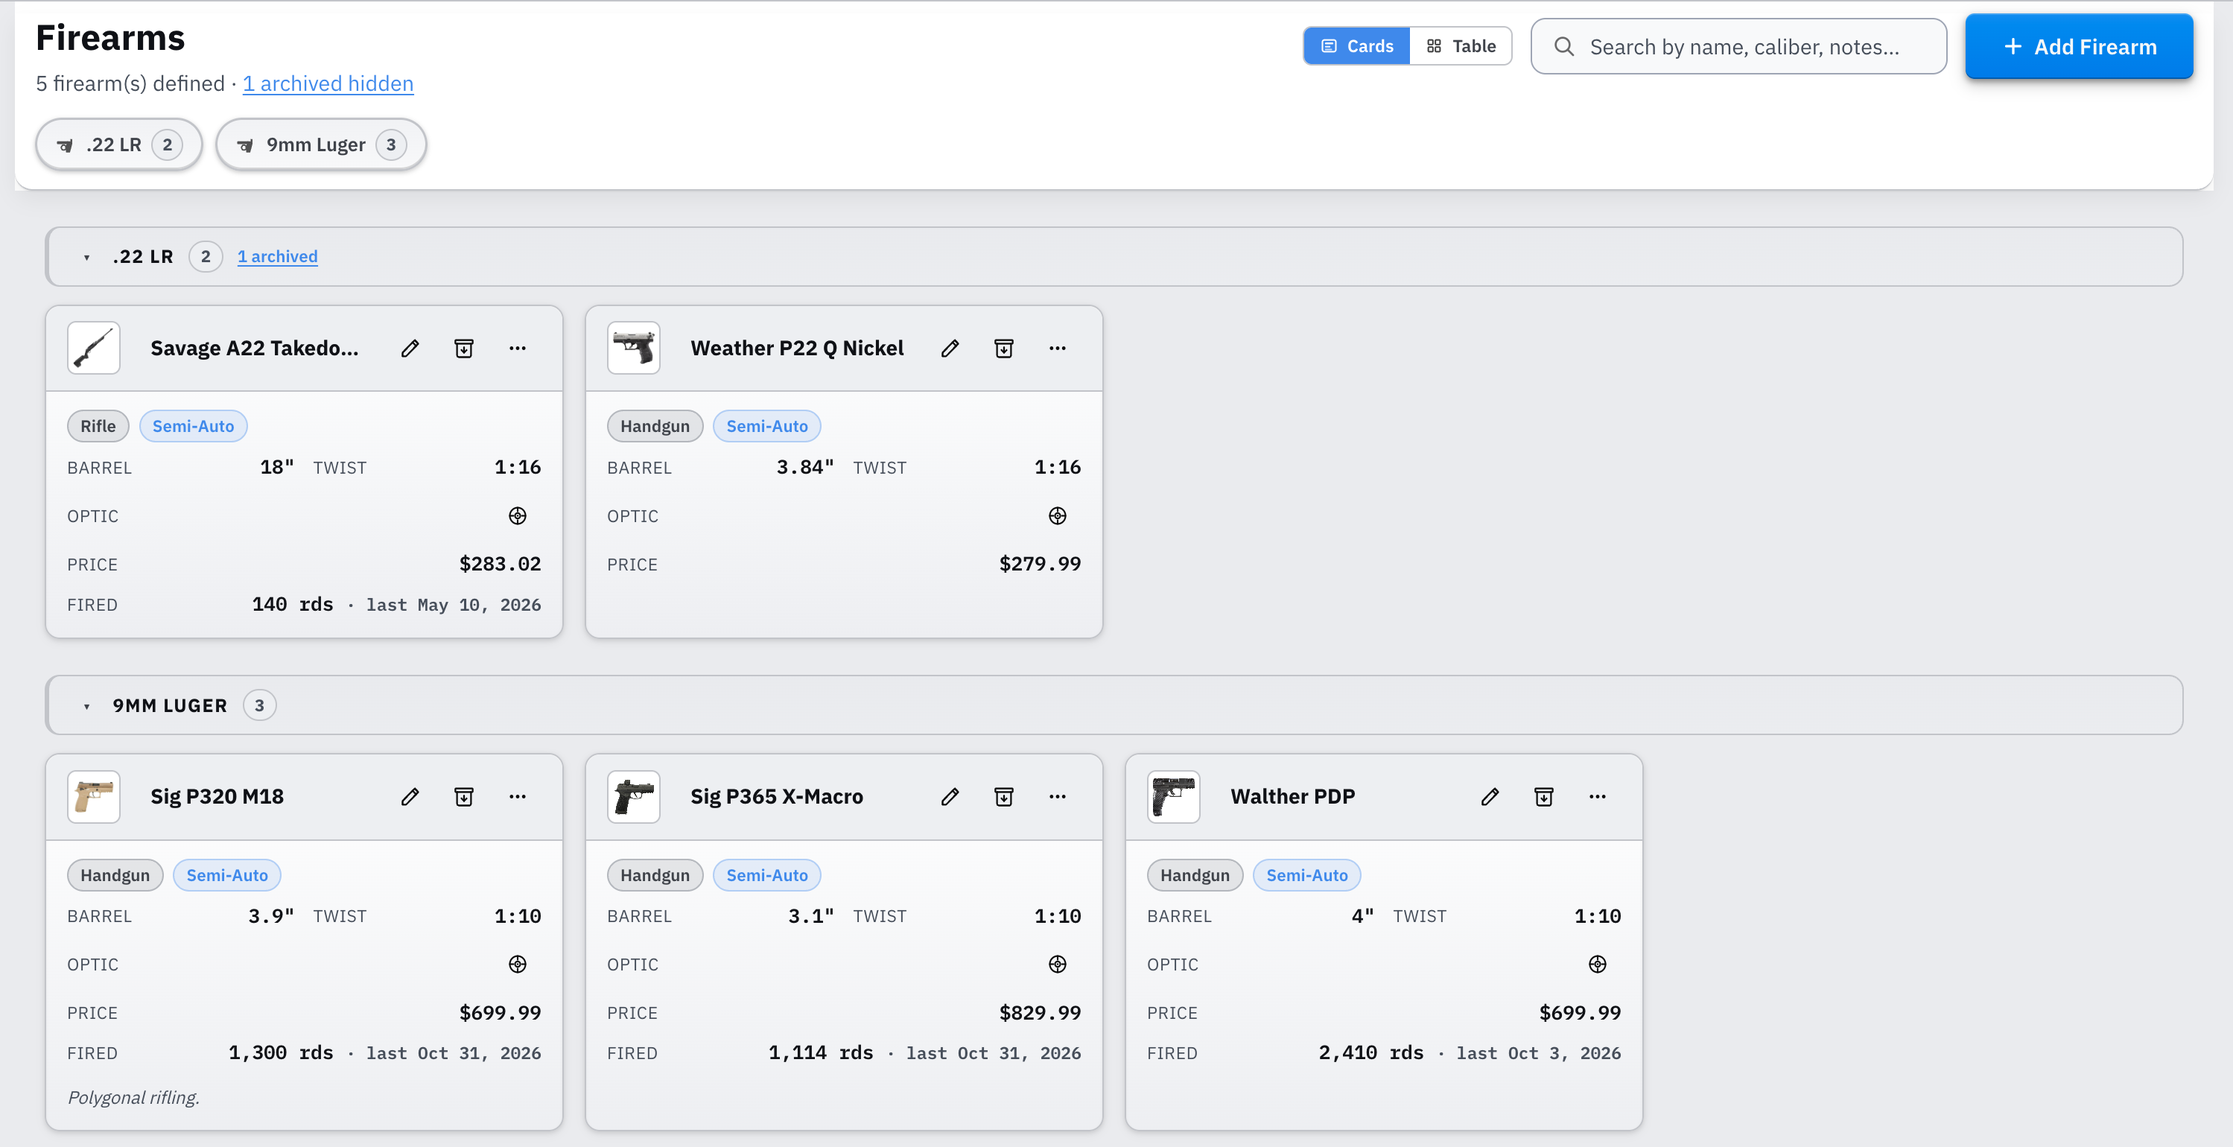
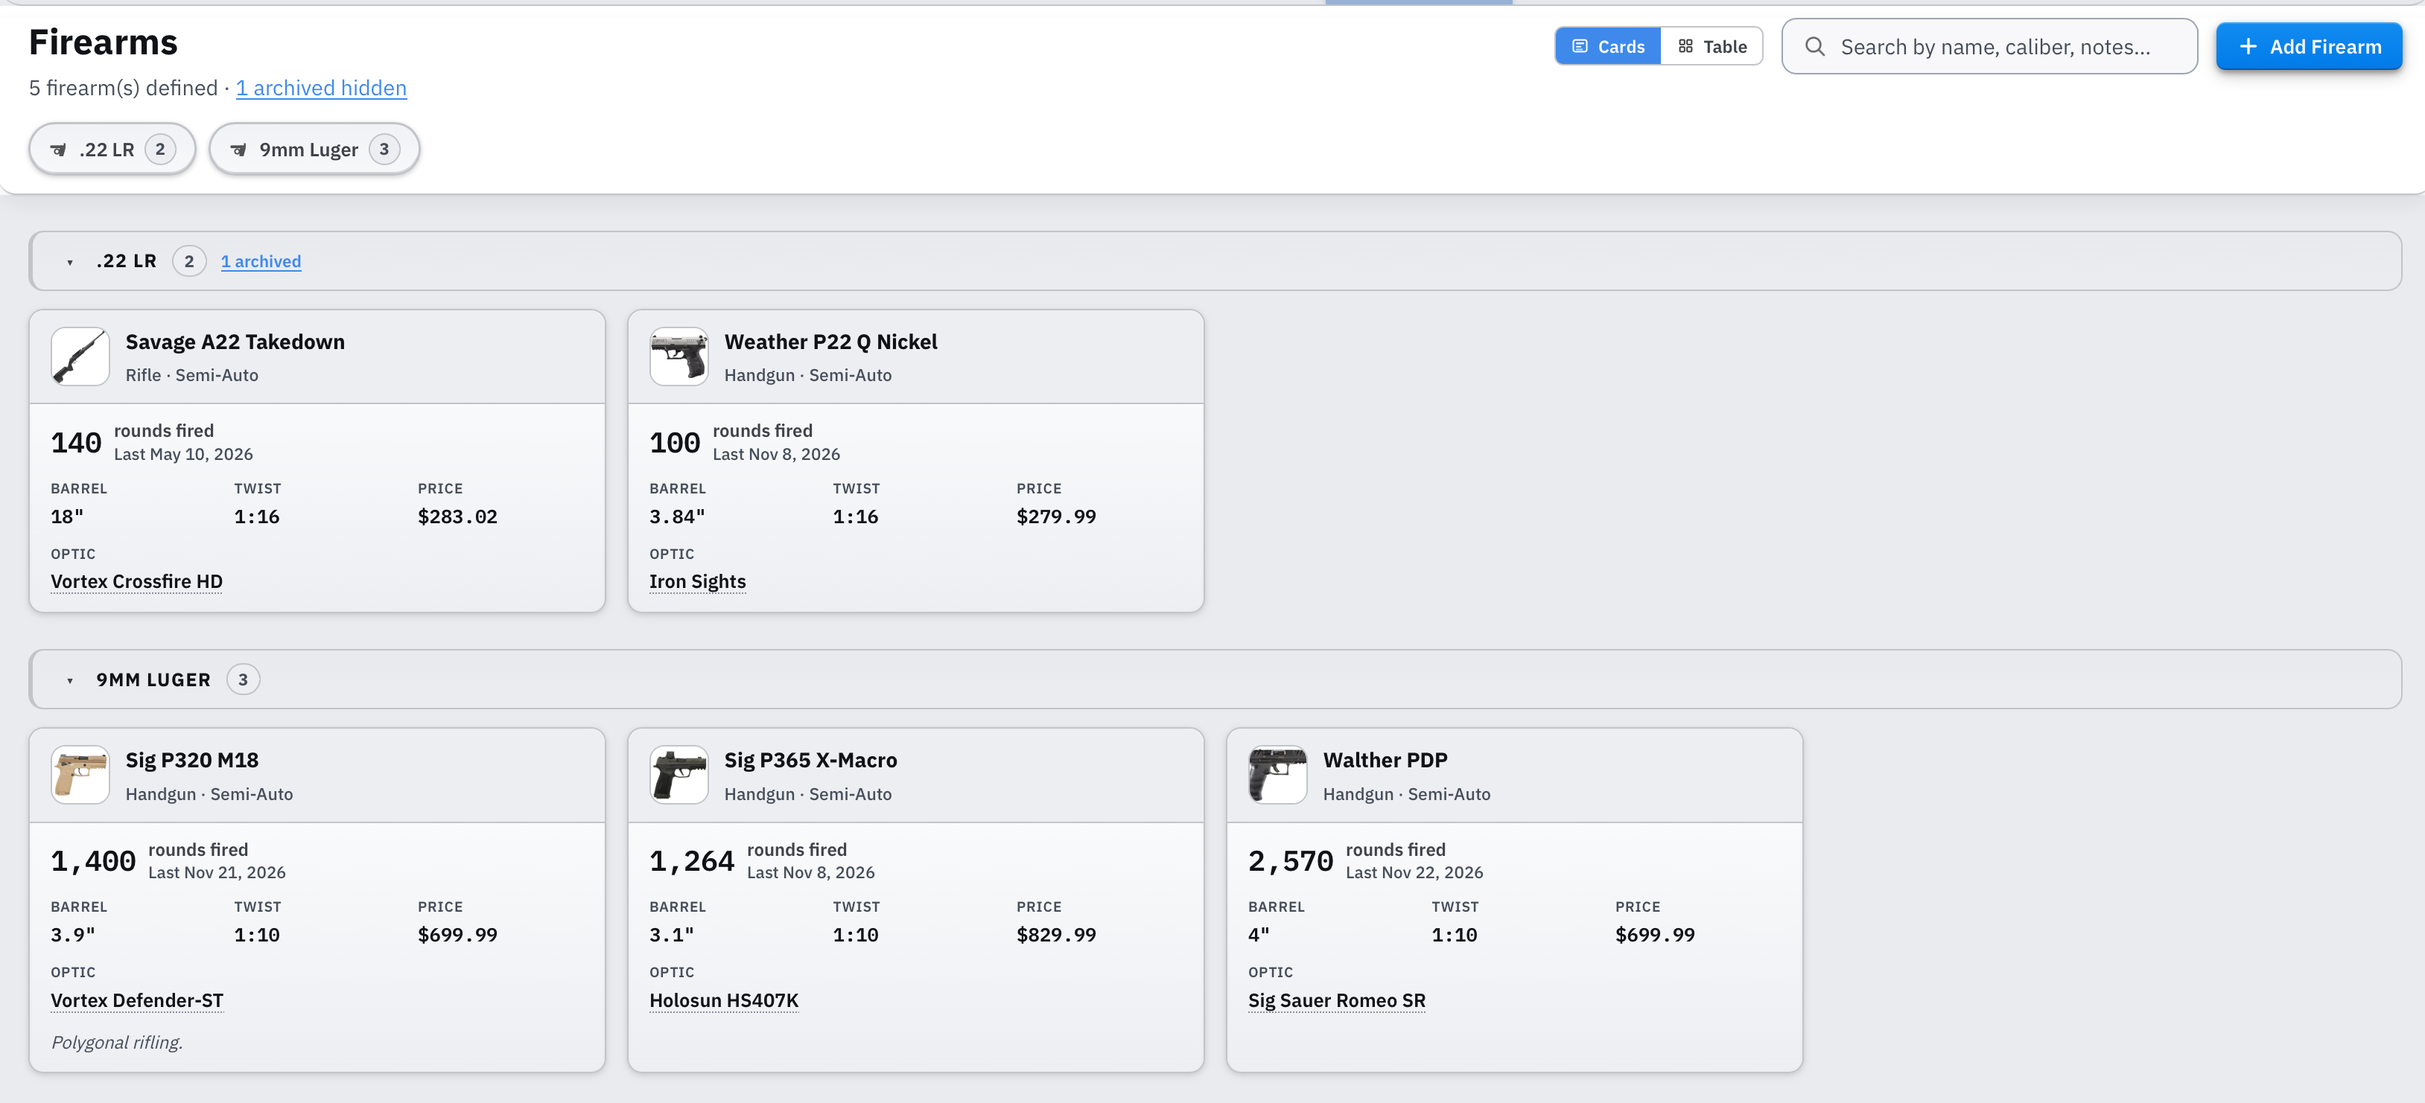
updates for version 2.17.28

diff --git a/README.md b/README.md
@@ -1,4 +1,4 @@
-# Reloading Tracker 2.17.23: User Guide
+# Reloading Tracker 2.17.28: User Guide
 
 Reloading Tracker is your complete bench-to-range companion. It starts as a production log: define your loads, record every pressing session with a unique lot number, and print a label for every box on your shelf.
 
@@ -7,7 +7,7 @@ It grows with you from there. Keep one inventory of your components. Work up new
 If you also care about costs, the app covers that too. Compare your reloads with factory ammunition, track how close you are to paying off your equipment, and see a side-by-side cost breakdown for any mix of loads. This part is optional; plenty of reloaders just want the log and the data.
 
 
-> **DOWNLOAD:** A desktop version is available from the releases page: [**latest version**](https://github.com/fmalpartida/reloading-cost-calculator/releases/tag/v2.17.23). All previous versions are available [here](https://github.com/fmalpartida/reloading-cost-calculator/releases).
+> **DOWNLOAD:** A desktop version is available from the releases page: [**latest version**](https://github.com/fmalpartida/reloading-cost-calculator/releases/tag/v2.17.28). All previous versions are available [here](https://github.com/fmalpartida/reloading-cost-calculator/releases).
 
 
 Want to try it out first?
@@ -267,7 +267,11 @@ Click **Add Ammo** or the **+** button in the **Factory** section header. The Ed
 
 ### 2.3 Managing Ammo Entries
 
-Each ammo card and table row has these actions in its top-right corner:
+Each card leads with the load itself. The header shows the name and caliber. Below it, the recipe sits in two columns: powder and charge next to bullet and weight, then COAL or CBTO, then primer next to brass. The quantities line up on the right of each column. Factory ammo shows the bullet and its shell specs instead.
+
+Under the recipe, a small line shows the stock pill and the cost per round. A note shows as a short preview; hover over it to read it all.
+
+On a card, the action buttons appear when you hover over it. In table view they're always in the row. These are the actions:
 
 | Button | Action |
 |--------|--------|
@@ -287,7 +291,7 @@ The buttons don't appear on retired or draft ammo.
 
 Delete asks you to confirm and names the load. If the load has Journal history, the dialog also offers **Retire instead**, which hides it and keeps that history.
 
-Click the **▸ / ▾** chevron on the left of the action buttons to expand a card and see the full component cost breakdown. Click the small arrow at the left of the **Reloads** or **Factory** header to collapse that whole section; the app remembers it.
+Click the **⌄** chevron at the right of the stock line to expand a card and see the full component cost breakdown, status and volume costs. Click the small arrow at the left of the **Reloads** or **Factory** header to collapse that whole section; the app remembers it.
 
 Use the **Search** box to filter cards by name, caliber, type, or component name.
 
@@ -301,15 +305,15 @@ To hide ammo with nothing in hand, click the **no-stock filter** button in the h
 
 **Stock display**
 
-Ammo that tracks stock shows a **stock pill** on the card and a **Stock** column in table view. Factory ammo shows rounds and boxes left, e.g. *250 rds (5 boxes) left* (see [2.2](#22-adding-a-factory-ammo-entry)). Reloads show the rounds left in their active Journal lots, e.g. *240 rds left*, which matches the Journal's **Remaining** column (see [2.1](#21-adding-a-reload-entry)). Ammo with no stock tracked shows nothing.
+Ammo that tracks stock shows a **stock pill** on the card and a **Stock** column in table view. Factory ammo shows rounds and boxes left, e.g. *250 rds · 5 boxes* on the card and *250 rds (5 boxes)* in the table (see [2.2](#22-adding-a-factory-ammo-entry)). Reloads show the rounds left in their active Journal lots, e.g. *240 rds*, which matches the Journal's **Remaining** column (see [2.1](#21-adding-a-reload-entry)). Ammo with no stock tracked shows nothing.
 
-On the card, the pill sits at the right end of the card. Its color shows where you stand: **green** while you have stock, **orange** at or below your **Alert Below** threshold, and **red** at zero. The table view shows the same pill. Hover over the pill to see how the number is worked out.
+On the card, the pill sits on the line under the recipe. Its color shows where you stand: **green** while you have stock, **orange** at or below your **Alert Below** threshold, and **red** at zero. The table view shows the same pill. Hover over the pill to see how the number is worked out.
 
 ![Screenshot: Expanded ammo card showing component breakdown](images/ammo-viewer.png)
 
 **Missing components**
 
-A reload shows an orange **⚠ Components missing** badge when a linked component can't cover even one round. For example, you're out of primers, or you have less powder than one charge. Hover over the badge to see which components. In table view, a small **⚠** sits next to the name instead.
+A reload shows an orange **⚠ Missing** badge next to the stock pill when a linked component can't cover even one round. For example, you're out of primers, or you have less powder than one charge. Hover over the badge to see which components. In table view, a small **⚠** sits next to the name instead.
 
 Only components linked from My Components (see [3.3](#33-linking-inventory-to-loads)) with **Stock on hand** set are checked.
 
@@ -345,7 +349,7 @@ Every ammo entry has a **status** that shows where it is in your development cyc
 | **Retired** | Recipe superseded or no longer in use. Hidden from default views but preserved in all history and journal entries. |
 
 **Changing the status**
-- In card view: open the card's **⋯** menu and pick **Set to** a status, or expand the card (▸) and use the **Status** selector. Each status in the selector has a one-line description.
+- In card view: open the card's **⋯** menu and pick **Set to** a status, or expand the card (**⌄**) and use the **Status** selector. Each status in the selector has a one-line description.
 - In table view: use the **Status** dropdown in the Status column.
 - In the Editor: the Status field appears in the Ammo Information section next to the load type.
 
@@ -586,20 +590,22 @@ Click **Save**. The card appears in its section right away.
 ![Screenshot: Add/Edit component form panel](./images/inventory-add-form.png)
 
 Each component card shows:
-- Component name and type icon
-- **Price**: the cost per unit (e.g. *$22.50/lb*, or *$0.16 ea* for a primer). The form keeps the price and quantity you entered; the card and table show only the per-unit cost.
-- **Stock**: a pill at the top of the card, if you track stock. It's **green** while you have stock, **orange** at or below your alert, and **red** at zero, the same as My Ammo. Powder and shot show two decimals; hover over the pill for the exact amount and your alert level.
+- The photo (or type icon) and name, with a one-line spec summary under the name, e.g. *124 gr · .355 · 9mm Luger · OAL 1.169 in* for a bullet, or *9mm Luger · 5× reloads* for brass
+- **Stock**: a pill, if you track stock. It's **green** while you have stock, **orange** at or below your alert, and **red** at zero, the same as My Ammo. Powder and shot show two decimals; hover over the pill for the exact amount and your alert level.
+- **Value on hand**: what that stock is worth, next to the pill
+- **Stock bar**: shown when you set an alert. The bar is your stock and the tick is your alert, on the same scale. With plenty in stock, the bar is full and the tick sits near the start. When stock drops below four times your alert, the tick stays a quarter of the way along and the bar shrinks toward it.
+- **Price**: the cost per unit (e.g. *$22.50/lb*, or *$0.16 ea* for a primer). Prices per pound or kilo always show two decimals. The form keeps the price and quantity you entered; the card and table show only the per-unit cost.
 - **Lot**: the lot number on hand, shown only when one has been entered.
-- A one-line spec summary under the name, e.g. *124 gr · .355 · 9mm Luger · OAL 1.169 in* for a bullet, or *9mm Luger · 5× reloads* for brass
-- Notes (if any)
+- **Journalled** and **Deducted**: how much the Journal has used. See below.
+- Notes (if any), as a short preview at the bottom
 
-Brass with **Consistency & Fit** or **Annealing** data shows a **Details** row with an icon for each: a ruler for Consistency & Fit, a flame for Annealing. Hover over an icon to see the details.
+Brass with **Consistency & Fit** or **Annealing** data shows a **Details** entry with an icon for each: a ruler for Consistency & Fit, a flame for Annealing. Hover over an icon to see the details.
 
 ![Screenshot: Inventory card showing price and per-unit fields](./images/inventory-card.png)
 
 ### 3.2 Managing Components
 
-Each component card and table row has these actions:
+Click a card to edit it. On a card, the action buttons appear when you hover over it. In table view they're always in the row. These are the actions:
 
 | Button | Action |
 |--------|--------|
@@ -617,7 +623,15 @@ When anything is archived, the count under the page title ends with an **"N arch
 
 ![Screenshot: Archived components, showing archived component tag and link to hide them at the top.](./images/archived-components.png)
 
-In **Table view**, the **Stock** column shows the same colored pill, with its unit (*primers*, *rounds*, *cases*, *hulls*, *wads*, *slugs*, *lb*, or *kg*), or a dash if not set. The **Lot #** column shows the lot number, or a dash.
+In **Table view**, the **Stock** column shows the same colored pill, with its unit (*primers*, *rounds*, *cases*, *hulls*, *wads*, *slugs*, *lb*, or *kg*), or a dash if not set. The **Level** column shows the same stock bar as the card, for components with an alert set. Hover over it for the amount and your alert. The **Used** column shows the Journal usage: the journalled amount on top, the deducted part under it.
+
+**Journal usage**
+
+Each component shows how much of it your Journal lots have used:
+- **Journalled**: everything pressed with it, across all Journal lots.
+- **Deducted**: the part of that you took out of stock with the Journal's stock button (see [5.2](#52-managing-journal-entries)).
+
+Amounts use the component's stock unit: primers, rounds, cases, lb or kg. Hover over the Journalled figure to see how many lots it covers. A lot counts toward the components its load links to, and an overridden brass counts toward that brass. Archived components keep their figures, so you can see how much of an old lot you used. Components no lot has used show nothing. The **Lot #** column shows the lot number, or a dash.
 
 For brass, an **Info** column holds the same Consistency & Fit and Annealing icons as the cards.
 
@@ -715,7 +729,7 @@ Click **Save**. The firearm shows up in the list and in the Range Log's firearm 
 
 ### 4.2 Managing Firearm Profiles
 
-Each firearm profile (in both card and table view) has these actions:
+Click a card to edit it. On a card, the action buttons appear when you hover over it. In table view they're always in the row. These are the actions:
 
 | Button | Action |
 |--------|--------|
@@ -749,11 +763,11 @@ Search and chips work together: the list shows the firearms that match both.
 
 The **Cards** / **Table** buttons switch the layout. The tab remembers your choice. Click the small arrow at the left of a caliber group to collapse it.
 
-**Card view** (default): each firearm is a compact tile with its photo (or a firearm icon) and name in the header. The body shows only the fields you filled in: Type and Action badges, Barrel and Twist, then Serial, Optic, Price, and **Fired**: the rounds logged with this firearm in the Range Log and the date you last shot it. Long notes are shortened; hover over the note to read it all.
+**Card view** (default): each firearm is a compact tile. The header shows its photo (or a firearm icon), the name, and the type and action, e.g. *Rifle · Semi-Auto*. The body leads with the rounds fired: the rounds logged with this firearm in the Range Log, and the date you last shot it. Below that, a small grid shows only the fields you filled in: Barrel, Twist, Price, Optic, and Serial. Long notes are shortened; hover over the note to read it all.
 
 **Table view**: one row per firearm, with columns for Name (with its photo), Type, Action, Barrel, Twist, Optic, and Fired (rounds and last range date). Serial number and price are on the card. Notes show as a short preview under the name; hover over it to read it all. On a narrow screen the table scrolls sideways and the Name column stays in view.
 
-**Optic**: when a firearm has optic details, a scope icon appears in the Optic column (table) or Optic row (card). Hover over it to see the manufacturer, model, type, magnification, focal plane, reticle, turret units, and zero distance.
+**Optic**: on a card, the Optic entry shows the optic's name, or its type when no make or model is set. In the table, a scope icon appears in the Optic column. Hover over either to see the manufacturer, model, type, magnification, focal plane, reticle, turret units, and zero distance.
 
 **Photo thumbnails**: hover over a firearm's thumbnail to see its full datasheet (see 4.5).
 
@@ -1149,7 +1163,18 @@ Next to the modes is the **Auto Place** button, described above. The toolbar als
 
 #### 7.1.4 Statistics Panel
 
-The **Statistics** panel in the right sidebar shows metrics for the current view: all shots, one group, or the aggregate. You can collapse it.
+The **Statistics** panel in the right sidebar shows metrics for the current view: all shots, one group, or the aggregate. You can collapse it. Values line up in one column across all sections. Hover over a value for a short explanation of what it measures.
+
+A table in the bottom-right corner of the image shows the key numbers too. It lists the distance, extreme spread, enclosing circle, mean radius, 2σ and R95 radius, 2σ ellipse, width, and height. Each value shows in your length unit, MOA, and MIL. A line sample next to each row matches the overlay drawn on the target.
+
+To move the table, drag it. Its corners turn orange when you hover over it. Each target keeps its own spot, so you can place it clear of the group. Click **Save** to keep the new spot. Prints use the same spot.
+
+Flyers are marked with a red triangle around the shot.
+
+With 5 or more shots, a light blue **2σ ellipse** appears around the group. Like the 2σ circle, it should hold about 86% of future shots. Unlike the circle, it follows the shape of the group. A long, tilted ellipse means the shots string along that line. The table shows its long and short sizes.
+
+
+![Screenshot: Target canvas with the stats table and a flyer marked by a red triangle](./images/targets-canvas-stats-table.png)
 
 ![Screenshot: Target Analysis statistics panel showing shot count, extreme spread, mean radius, CEP50, windage and elevation offset rows](./images/targets-stats-panel.png)
 
@@ -1166,7 +1191,7 @@ These describe the size and shape of the group.
 | **Figure of Merit (FoM)** | The average of the horizontal and vertical spreads. A quick check of whether the group is roughly round. |
 | **Horizontal Spread / Vertical Spread** | The width and height of the group. A group much taller than it is wide points to vertical stringing. |
 | **Horizontal SD / Vertical SD** | Standard deviation on each axis. A low vertical SD with a high vertical spread means the outlying shots sit at the extremes, a classic sign of inconsistent muzzle velocity. |
-| **Radial SD** | Standard deviation of each shot's distance from the group centre. A useful summary of how tightly the shots cluster, and the basis for the Rayleigh σ below. |
+| **Radial SD** | Standard deviation of each shot's distance from the group centre. Low means the shots sit at similar distances from the centre. It isn't the σ used below. For a normal group it's about 0.66 σ. |
 | **Max Radial Deviation** | Distance from the group centre to the farthest shot. |
 | **Vertical String Ratio** | Vertical spread divided by horizontal spread. Above 1.5 it's highlighted as a stringing warning: the group is much taller than wide, often from inconsistent velocity, trigger timing, or recoil control. |
 
@@ -1199,7 +1224,7 @@ Where the group centre landed compared with your point of aim. Without a POA, th
 | **POI distance** | The straight-line distance from the point of aim to the group centre, combining windage and elevation. |
 | **Clicks needed** | The scope clicks needed to move the point of impact onto the point of aim, based on your click value. Positive = right/up; negative = left/down. Hover over the clicks to see the click size used. |
 
-Linear values use the unit set in the Configuration panel (in or cm). With a shot distance set, MOA or MIL values appear in brackets next to them.
+Linear values use the measurement system set in the Configuration panel. Imperial shows inches. Metric shows mm up to 100 mm, then cm. With a shot distance set, MOA or MIL values appear in brackets next to them.
 
 #### 7.1.5 Working with Groups
 
@@ -1416,6 +1441,8 @@ Firearm and Shots share a row, right above Distance and Unit.
 
 Group size, average velocity, and SD are **not** entered here, since you won't know them before shooting. They print as blank labelled fields (e.g. *GRP:*, *VEL:*, *SD:*) for you to fill in at the range.
 
+To move an annotation box, drag it in the preview. Its corners turn orange when you hover over it. Inside the target, it moves anywhere. Below the target, it slides left and right. Each target keeps its own spot, and the print matches. Click **Save Sheet** to keep it.
+
 The **Load** and **Gun** toggles control which part of the block prints, so you can print the gun and result fields without the load details, or the other way round. A **DATE** field to fill in prints either way. Text that's too long, like a long firearm name, is shortened with an ellipsis.
 
 **Filling multiple targets quickly**
@@ -1428,9 +1455,11 @@ The **Load** and **Gun** toggles control which part of the block prints, so you 
 #### 7.3.5 Managing Target Sheets
 
 Saved sheets appear as cards. Each card shows:
-- **Ring colour swatches** showing the colour scheme
+- A thumbnail of the printed page, with every target in place
 - Sheet name, page size, columns × rows layout, and shape
-- Last updated date
+- **Ring colour swatches** and the last updated date
+
+To change the order, drag a card to a new spot. The app remembers the order. New and duplicated sheets go first.
 
 Each card has three action buttons:
 
